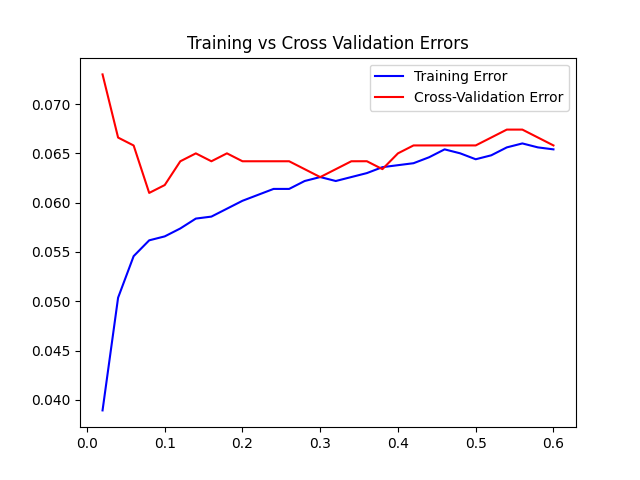
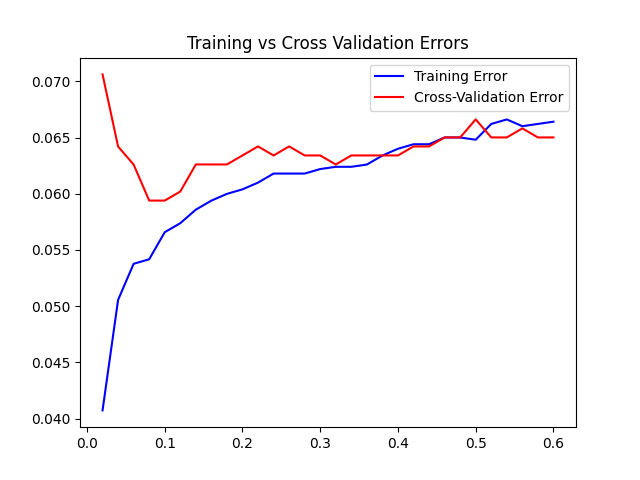
adds svm classifier

diff --git a/SvmClassifier.py b/SvmClassifier.py
@@ -1,0 +1,79 @@
+import numpy as np
+import matplotlib.pyplot as plt
+from sklearn.model_selection import StratifiedKFold
+from sklearn.svm import SVC
+
+class SvmClassifier:
+    def __init__(self):
+        self._errors = []
+        self._svc = None
+
+    def _svc_err(self, X_r, Y_r, tr_ix, va_ix, c, gamma):
+        svc = SVC(kernel='rbf', C=c, gamma=gamma)
+        svc.fit(X_r[tr_ix], Y_r[tr_ix])
+        
+        train_err = 1 - svc.score(X_r[tr_ix], Y_r[tr_ix])
+        valid_err = 1 - svc.score(X_r[va_ix], Y_r[va_ix])
+
+        return train_err, valid_err
+
+    def optimize_parameters(self, X_r, Y_r, folds, g_range, c_range):
+        kfold = StratifiedKFold(n_splits=folds)
+
+        best_c = best_gamma = 0
+        best_valid_err = 1
+
+        for gamma in np.arange(g_range[0], g_range[1] + g_range[2], g_range[2]):
+            bg_t_err = bg_v_err = 1
+
+            for c in np.arange(c_range[0], c_range[1] + c_range[2], c_range[2]):
+                train_err = valid_err = 0
+
+                for tr_ix, va_ix in kfold.split(Y_r, Y_r):
+                    tr_err, va_err = self._svc_err(X_r, Y_r, tr_ix, va_ix, c, gamma)
+                    train_err += tr_err / folds
+                    valid_err += va_err / folds
+
+                if (valid_err < best_valid_err):
+                    best_valid_err = valid_err
+                    best_c = c
+                    best_gamma = gamma
+
+                if (valid_err < bg_v_err):
+                    bg_v_err = valid_err
+                    bg_t_err = train_err
+
+            self._errors.append([gamma, bg_t_err, bg_v_err])
+
+        return best_c, best_gamma, best_valid_err
+
+    def fit(self, X_r, Y_r, gamma, c):
+        self._svc = SVC(kernel='rbf', C=c, gamma=gamma)
+        self._svc.fit(X_r, Y_r)
+
+    def predict(self, X_t):
+        if (self._svc == None):
+            raise Exception('The classifier was not fitted')
+        
+        return self._svc.predict(X_t)
+
+    def score(self, X_t, Y_t):
+        if (self._svc == None):
+            raise Exception('The classifier was not fitted')
+
+        return self._svc.score(X_t, Y_t)
+
+    def plot_errors(self, save_fig=True, fig_name='SVM.png'):
+        errors = np.array(self._errors)
+
+        plt.figure()
+        plt.title('Training vs Cross Validation Errors')
+        plt.plot(errors[:,0], errors[:,1], 'b', label='Training Error')
+        plt.plot(errors[:,0], errors[:,2], 'r', label='Cross-Validation Error')
+        plt.legend()
+
+        if save_fig:
+            plt.savefig(fig_name)
+
+        plt.show()
+        return

diff --git a/TP1.py b/TP1.py
@@ -1,5 +1,6 @@
 import numpy as np
 from NaiveBayesKde import NaiveBayesKde
+from SvmClassifier import SvmClassifier
 from sklearn.utils import shuffle
 from sklearn.naive_bayes import GaussianNB
 from sklearn.metrics import accuracy_score
@@ -22,26 +23,42 @@ means = np.std(Xs_train, axis=0)
 Xs_train = (Xs_train - means) / stds
 Xs_test = (Xs_test - means) / stds
 
-def test_error(predictions, Ys):
-    cmp_predict = Ys == predictions
-    test_error = (len(cmp_predict) - np.sum(cmp_predict)) / len(cmp_predict)
-    return test_error
+### Naive Bayes with Kernel Density Estimation ####
+
+print("Optimizing Naive Bayes w/ KDE parameters...")
 
 nb_kde = NaiveBayesKde()
-best_bw, best_valid_err = nb_kde.optimize_bandwidth(Xs_train, Ys_train, 5, 0.02, 0.61, 0.02)
+nb_bw, nb_valid_err = nb_kde.optimize_bandwidth(Xs_train, Ys_train, 5, 0.02, 0.6, 0.02)
 
-print("Best bandwidth is", best_bw, "with validation error", best_valid_err)
+print("Naive Bayes w/ KDE - Best bandwidth:", nb_bw, "with validation error", nb_valid_err)
 
 nb_kde.fit(Xs_train, Ys_train)
-nb_kde_pred = nb_kde.predict(Xs_test, best_bw)
+nb_kde_pred = nb_kde.predict(Xs_test, nb_bw)
 nb_kde_test_err = 1 - accuracy_score(Ys_test, nb_kde_pred)
 
-nb_kde.plot_errors()
-
 print("Naive Bayes w/ KDE - Test Error:", nb_kde_test_err)
+
+#### Naive Bayes with a Gaussian Distribution ####
 
 nb_gaussian = GaussianNB().fit(Xs_train, Ys_train)
 nb_gaussian_pred = nb_gaussian.predict(Xs_test)
 nb_gaussian_test_err = 1 - nb_gaussian.score(Xs_test, Ys_test)
 
-print("Naive Bayes w/ Gaussian - Test Error:", nb_gaussian_test_err)
+print("\nNaive Bayes w/ Gaussian - Test Error:", nb_gaussian_test_err)
+
+print("\nOptimizing SVM parameters...")
+
+svc = SvmClassifier()
+svc_c, svc_g, svc_valid_err = svc.optimize_parameters(Xs_train, Ys_train, 5, [0.2, 6, 0.2], [1, 1000, 100])
+
+print("SVM - Best C:", svc_c)
+print("SVM - Best Gamma:", svc_g)
+print("SVM - Best validation error:", svc_valid_err)
+
+svc.fit(Xs_train, Ys_train, svc_g, svc_c)
+svc_test_err = 1 - svc.score(Xs_test, Ys_test)
+
+print("SVM - Test Error:", svc_test_err)
+
+nb_kde.plot_errors()
+svc.plot_errors()

diff --git a/NaiveBayesKde.py b/NaiveBayesKde.py
@@ -56,7 +56,7 @@ class NaiveBayesKde:
         best_bw = 0
         best_valid_err = 1
 
-        for bw in np.arange(start_bw, end_bw, step_bw):
+        for bw in np.arange(start_bw, end_bw + step_bw, step_bw):
             train_err = valid_err = 0
             for tr_ix, va_ix in kfold.split(Y_r, Y_r):
                 tr_err, va_err = self._kde_calc_fold(X_r, Y_r, tr_ix, va_ix, bw)
@@ -109,9 +109,9 @@ class NaiveBayesKde:
         plt.plot(errors[:,0], errors[:,1], 'b', label='Training Error')
         plt.plot(errors[:,0], errors[:,2], 'r', label='Cross-Validation Error')
         plt.legend()
-        plt.show()
-
+        
         if save_fig:
             plt.savefig(fig_name)
 
+        plt.show()
         return
